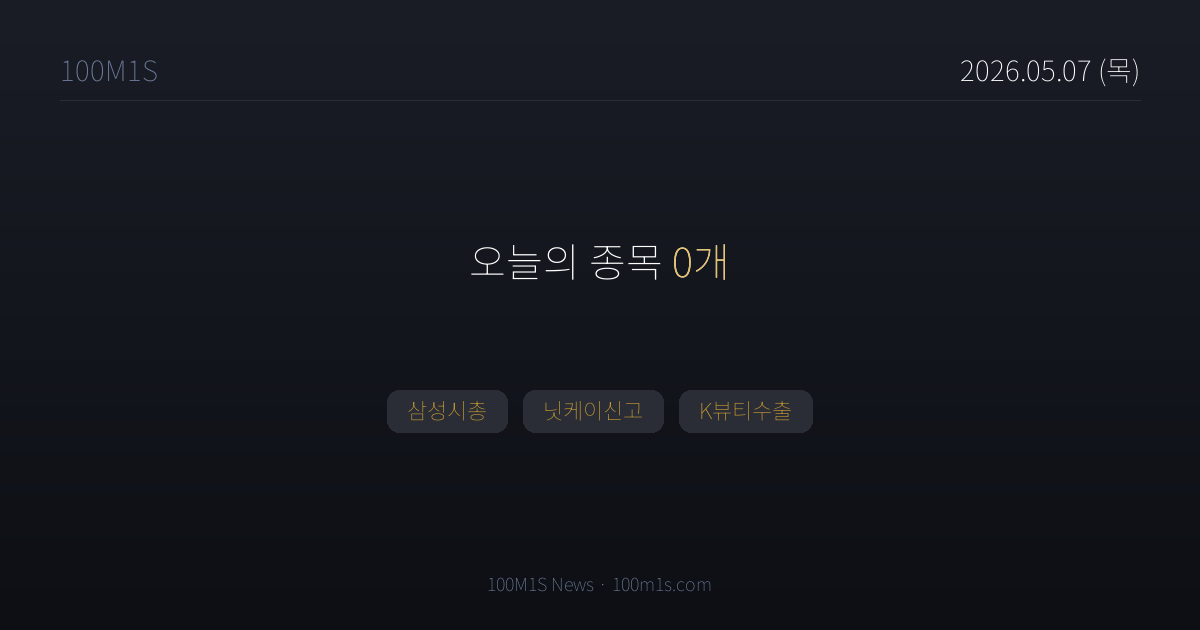
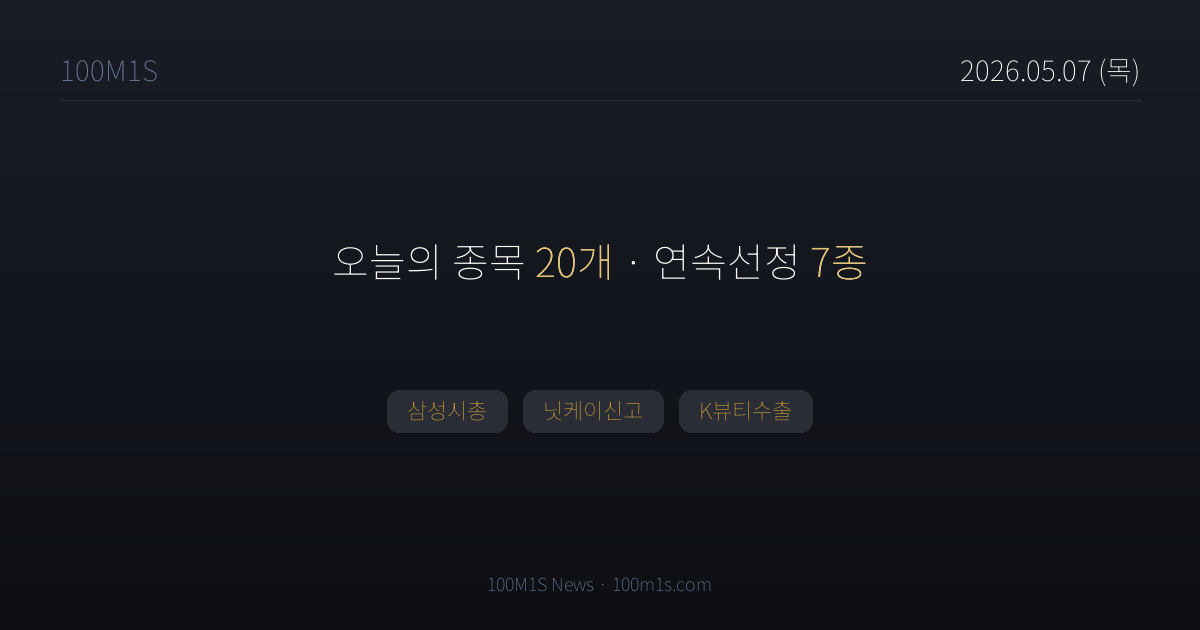
fix(news): OG title 5-07 종목 0개 → 20개 재생성 (P0)
design-news-mobile-verify 12:28 검증 P0 #4 fix.
원인: 5-07 OG가 데이터 적재 전 생성된 후 재생성 누락.
대응: python3 -m scripts.news_pipeline.generate_og 2026-05-07.
P0 #1~3 (#meta/ticker/toss-cal-sub)은 의도된 동작 — fix 불요.

Changed region(s): [[0.2775, 0.3921, 0.74, 0.4524]]

diff --git a/news/stock/2026-05-07.html b/news/stock/2026-05-07.html
@@ -3,7 +3,7 @@
 <head>
 <meta charset="UTF-8">
 <title>5월 7일 (목) 뉴스 — 100M1S</title>
-<meta property="og:title" content="5월 7일 (목) · 종목 0개">
+<meta property="og:title" content="5월 7일 (목) · 종목 20개">
 <meta property="og:description" content="삼성시총, 닛케이신고, K뷰티수출">
 <meta property="og:image" content="https://100m1s.com/og/news/stock/2026-05-07.png">
 <meta property="og:image:width" content="1200">
